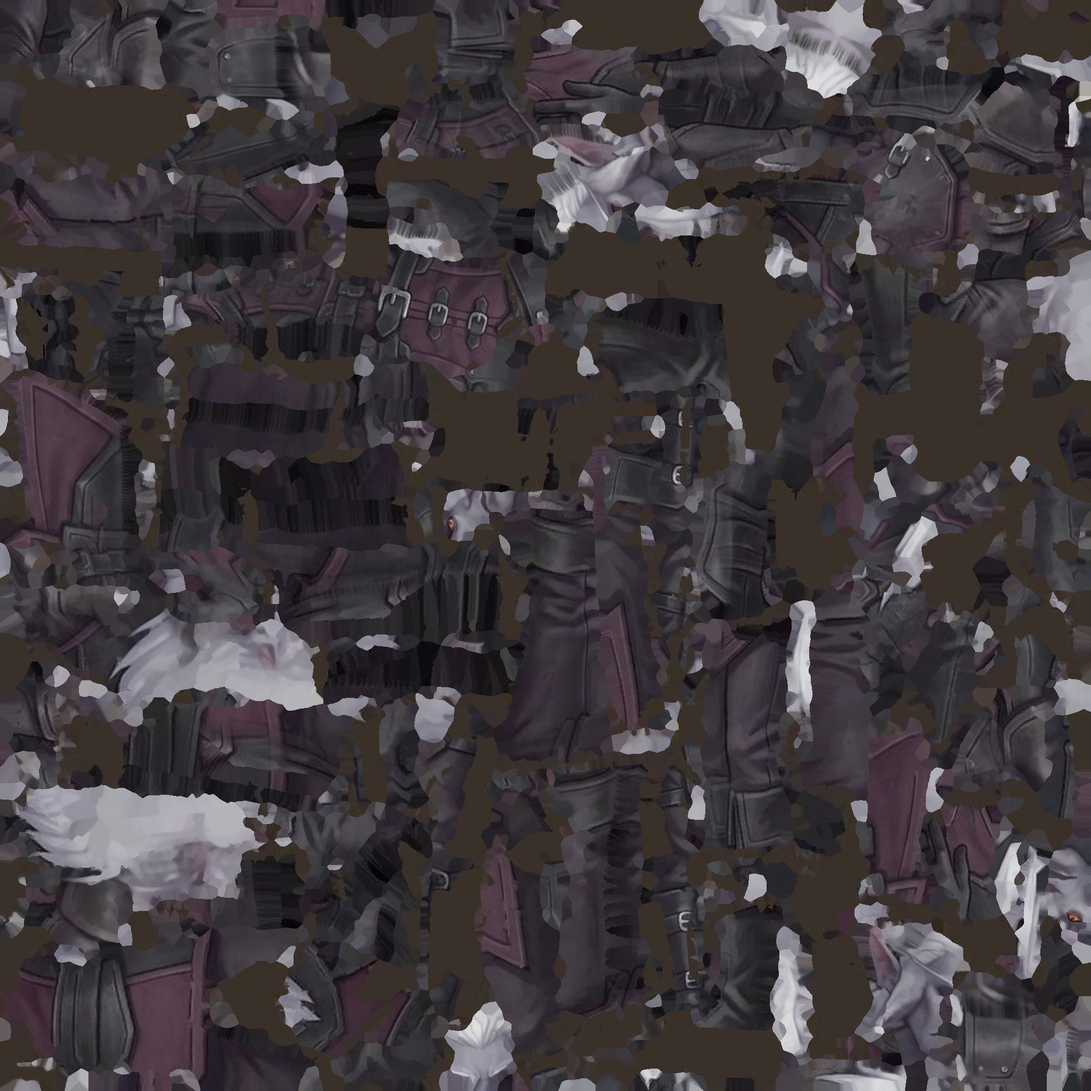
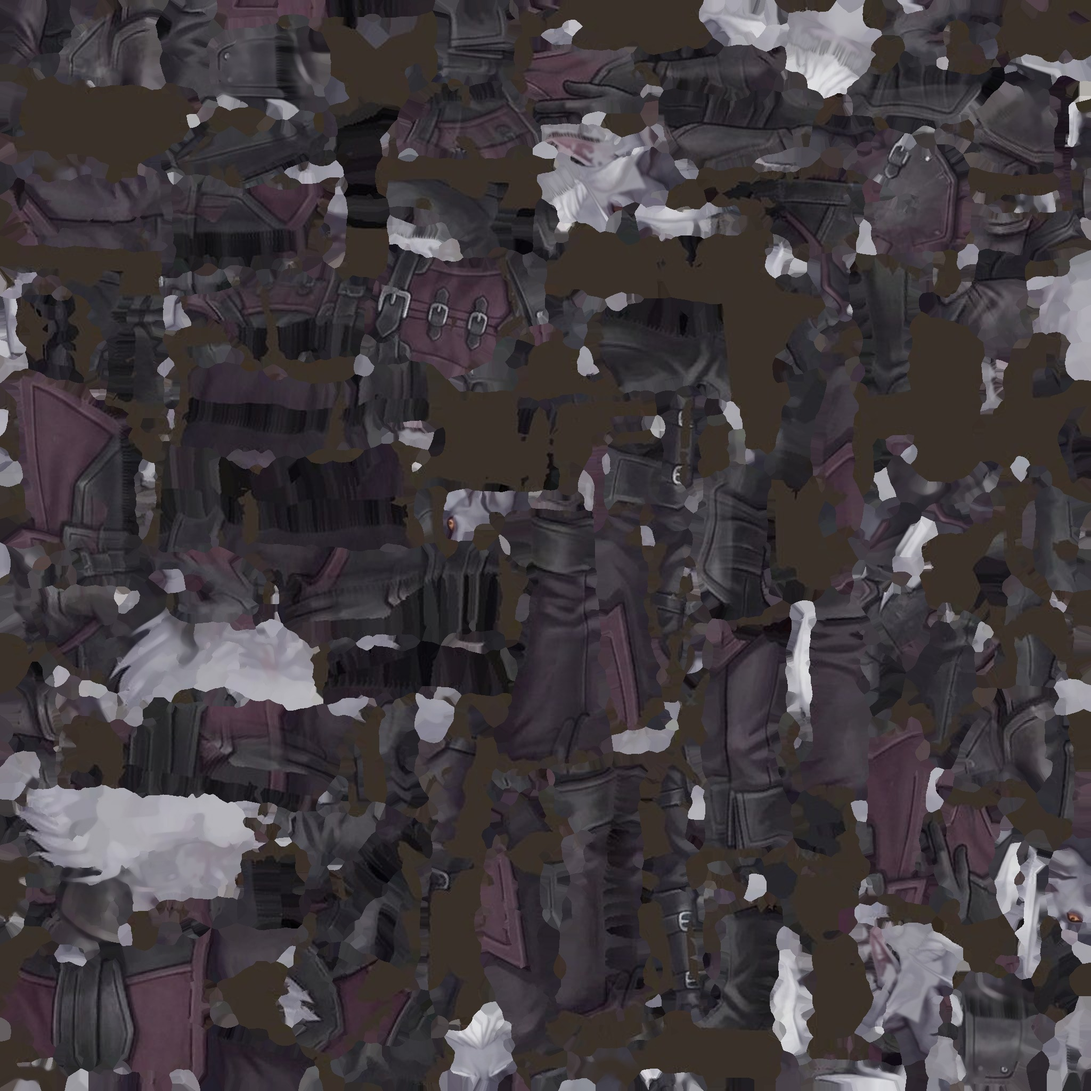
Ajustes finos: cabelo lateral dos rostos, guarda do anão, arqueiro no vídeo, comparação no Unity
Regressão: 0 falhas. afinar_manga.py fica como ferramenta experimental (não aplicada).

Claude-Session: https://claude.ai/code/session_013wKLGHvYun6wq6jVkxa3n2

diff --git a/prototipo-unity/Valtheria/Scripts/PrototipoValtheria.cs b/prototipo-unity/Valtheria/Scripts/PrototipoValtheria.cs
@@ -673,8 +673,74 @@ public class PrototipoValtheria : MonoBehaviour
         }
         else if (pegadaFase == cams.Length) { pegadaFase++; Invoke(nameof(Sair), 1.5f); }
     }
+    // foto das raças (26/11): Valtheria.exe -racas C:/caminho/racas (grava _frente.png, _perto.png e _lado.png)
+    // os 12 corpos do Godot (mesmo esqueleto, mesmas texturas), parados em fila, na mesma ordem da foto do Godot
+    static readonly string[] RACAS = { "humano_m", "humano_f", "elfo_m", "elfo_f", "sombrio_m", "sombrio_f", "orc_m", "orc_f", "anao_m", "anao_f", "gigante_m", "gigante_f" };
+    static readonly float[] ALTURAS = { 1.8f, 1.68f, 1.85f, 1.75f, 1.82f, 1.72f, 2.0f, 1.87f, 1.36f, 1.3f, 2.6f, 2.45f };
+    string racasSaida;
+    float racasT;
+    int racasFase;
+    readonly List<Animador> racasAnim = new List<Animador>();
+    void RacasAuto(float dt)
+    {
+        if (racasSaida == null)
+        {
+            var args = System.Environment.GetCommandLineArgs();
+            racasSaida = "";
+            for (int i = 0; i < args.Length - 1; i++) if (args[i] == "-racas") racasSaida = args[i + 1];
+            if (racasSaida == "") return;
+            foreach (var l in lobos) { l.anim.Destruir(); Destroy(l.go); }
+            lobos.Clear();
+            jogador.transform.position = new Vector3(60, 0, 60);
+            // palco limpo, como no estúdio do Godot: some com a natureza e o jogador; chão cinza liso
+            foreach (var go in UnityEngine.SceneManagement.SceneManager.GetActiveScene().GetRootGameObjects())
+                if (go != gameObject && go.GetComponentInChildren<Light>() == null && go.GetComponentInChildren<Camera>() == null && go.GetComponentInChildren<Canvas>() == null) go.SetActive(false);
+            jogador.SetActive(false);
+            var chaoR = GameObject.CreatePrimitive(PrimitiveType.Plane);
+            chaoR.transform.localScale = new Vector3(4, 1, 4);
+            if (lit == null) lit = Shader.Find("Universal Render Pipeline/Lit");
+            chaoR.GetComponent<Renderer>().sharedMaterial = new Material(lit) { color = new Color(0.24f, 0.26f, 0.28f) };
+            for (int i = 0; i < RACAS.Length; i++)
+            {
+                var pref = Resources.Load<GameObject>("Valtheria/Racas/" + RACAS[i]);
+                if (pref == null) { Debug.LogWarning("sem raça " + RACAS[i]); continue; }
+                var g = Instantiate(pref, new Vector3((i - (RACAS.Length - 1) * 0.5f) * 1.25f, 0, 0), Quaternion.Euler(0, 180f - 20f, 0));
+                if (lit == null) lit = Shader.Find("Universal Render Pipeline/Lit");
+                var m = new Material(lit) { name = RACAS[i], enableInstancing = true };
+                var t = Resources.Load<Texture2D>("Valtheria/Racas/Texturas/" + RACAS[i] + "_cor");
+                if (t != null) m.SetTexture("_BaseMap", t);
+                m.SetFloat("_Smoothness", 0.25f);
+                foreach (var r in g.GetComponentsInChildren<Renderer>())
+                {
+                    var arr = r.sharedMaterials;
+                    for (int k = 0; k < arr.Length; k++) arr[k] = m;
+                    if (arr.Length == 0) arr = new[] { m };
+                    r.sharedMaterials = arr;
+                    r.shadowCastingMode = ShadowCastingMode.On;
+                }
+                Ajustar(g, ALTURAS[i]);
+                var a = new Animador(g, Resources.LoadAll<AnimationClip>("Valtheria/Racas/" + RACAS[i]));
+                a.Tocar("Idle");
+                racasAnim.Add(a);
+            }
+        }
+        if (racasSaida == "") return;
+        foreach (var a in racasAnim) a.Atualizar(dt);
+        racasT += dt;
+        var cams = new (Vector3 p, Vector3 o, string n)[] {
+            (new Vector3(0, 1.4f, -17.5f), new Vector3(0, 1.1f, 0), "_frente"),
+            (new Vector3(-4.4f, 1.7f, -2.2f), new Vector3(-4.4f, 1.62f, 0), "_perto"),
+            (new Vector3(1.25f, 1.9f, -3.0f), new Vector3(1.25f, 1.7f, 0), "_perto2") };
+        if (racasFase < cams.Length)
+        {
+            cam.position = cams[racasFase].p;
+            cam.rotation = Quaternion.LookRotation(cams[racasFase].o - cam.position);
+            if (racasT > 6f) { ScreenCapture.CaptureScreenshot(racasSaida + cams[racasFase].n + ".png"); racasFase++; racasT = 5.4f; }
+        }
+        else if (racasFase == cams.Length) { racasFase++; Invoke(nameof(Sair), 1.5f); }
+    }
     void Sair() { Application.Quit(); }
-    void LateUpdate() { FotoAuto(Time.deltaTime); PegadaAuto(Time.deltaTime); }
+    void LateUpdate() { FotoAuto(Time.deltaTime); PegadaAuto(Time.deltaTime); RacasAuto(Time.deltaTime); }
 
     void MedirAuto(float dt)
     {

diff --git a/cliente-godot/ferramentas/racas/afinar_manga.py b/cliente-godot/ferramentas/racas/afinar_manga.py
@@ -1,0 +1,81 @@
+#!/usr/bin/env python3
+"""Afina a manga larga no braço (pedido de Robson 26/11: o ombro inchava ao puxar o arco).
+
+Aproxima do eixo do osso os vértices do braço (upperarm) e do ombro (clavicle), na proporção do peso desses
+ossos: a manga fica mais justa, sem mexer em ossos, pesos ou animações.
+Uso: python3 afinar_manga.py entrada.glb saida.glb [--fator 0.82]
+"""
+import json, struct, sys
+import numpy as np
+
+COMP = {5126: 'f4', 5123: 'u2', 5121: 'u1', 5125: 'u4'}
+NC = {'SCALAR': 1, 'VEC2': 2, 'VEC3': 3, 'VEC4': 4, 'MAT4': 16}
+
+
+def main(src, dst, fator=0.82):
+    raw = bytearray(open(src, 'rb').read())
+    n = struct.unpack('<I', raw[12:16])[0]
+    js = json.loads(raw[20:20 + n])
+    b0 = 20 + n + 8
+
+    def info(i):
+        a = js['accessors'][i]
+        bv = js['bufferViews'][a['bufferView']]
+        return b0 + bv.get('byteOffset', 0) + a.get('byteOffset', 0), bv.get('byteStride', 0), np.dtype(COMP[a['componentType']]), NC[a['type']], a['count']
+
+    def ler(i):
+        o, st, dt, nc, cnt = info(i)
+        st = st or nc * dt.itemsize
+        m = np.frombuffer(bytes(raw), dtype=np.uint8, count=st * cnt, offset=o).reshape(cnt, st)[:, :nc * dt.itemsize].copy()
+        return m.view(dt).reshape(cnt, nc)
+
+    def gravar(i, arr):
+        o, st, dt, nc, cnt = info(i)
+        st = st or nc * dt.itemsize
+        a = np.ascontiguousarray(arr.astype(dt)).view(np.uint8).reshape(cnt, nc * dt.itemsize)
+        for k in range(cnt):
+            raw[o + k * st:o + k * st + nc * dt.itemsize] = a[k].tobytes()
+
+    sk = js['skins'][0]
+    juntas = sk['joints']
+    nomes = [js['nodes'][j]['name'] for j in juntas]
+    ibm = ler(sk['inverseBindMatrices']).reshape(-1, 4, 4).transpose(0, 2, 1)  # glTF é coluna-major
+    pos_osso = np.array([np.linalg.inv(m)[:3, 3] for m in ibm])
+    idx = {nm: i for i, nm in enumerate(nomes)}
+    pr = js['meshes'][0]['primitives'][0]
+    P = ler(pr['attributes']['POSITION']).astype(float)
+    J = ler(pr['attributes']['JOINTS_0']).astype(int)
+    W = ler(pr['attributes']['WEIGHTS_0']).astype(float)
+    novo = P.copy()
+    for lado in ('l', 'r'):
+        a = pos_osso[idx['upperarm_' + lado]]
+        b = pos_osso[idx['lowerarm_' + lado]]
+        alvo = [idx['upperarm_' + lado], idx['clavicle_' + lado]]
+        if 'upperarm_twist_01_' + lado in idx:
+            alvo.append(idx['upperarm_twist_01_' + lado])
+        w = np.zeros(len(P))
+        for k in range(4):
+            w += np.where(np.isin(J[:, k], alvo), W[:, k], 0.0)
+        w = np.clip((w - 0.25) / 0.5, 0, 1)  # só onde o braço/ombro manda; transição suave para peito e cotovelo
+        ab = b - a
+        t = np.clip(((P - a) @ ab) / (ab @ ab), 0.0, 1.0)
+        perto = a + t[:, None] * ab
+        k_ = 1.0 - (1.0 - fator) * w
+        novo = np.where(w[:, None] > 0, perto + (novo - perto) * k_[:, None], novo)
+    gravar(pr['attributes']['POSITION'], novo.astype(np.float32))
+    # limites do acessório de posição
+    acc = js['accessors'][pr['attributes']['POSITION']]
+    acc['min'] = novo.min(0).tolist(); acc['max'] = novo.max(0).tolist()
+    js_b = json.dumps(js, separators=(',', ':')).encode()
+    js_b += b' ' * ((4 - len(js_b) % 4) % 4)
+    if len(js_b) != n:
+        raise SystemExit('json mudou de tamanho; gravar não implementado')
+    raw[20:20 + n] = js_b
+    open(dst, 'wb').write(raw)
+    print(f'{src}: manga afinada ({fator})')
+
+
+if __name__ == '__main__':
+    args = sys.argv[1:]
+    fator = float(args[args.index('--fator') + 1]) if '--fator' in args else 0.82
+    main(args[0], args[1], fator)

diff --git a/cliente-godot/ferramentas/racas/rosto_frontal.py b/cliente-godot/ferramentas/racas/rosto_frontal.py
@@ -49,7 +49,7 @@ base = np.asarray(Image.open(io.BytesIO(bruto)).convert('RGB').resize((tam, tam)
 # região do rosto/cabeça (mesmo critério da assadura) com borda suave para baixo (pescoço)
 y_cab = lo[1] + 0.86 * alt
 PX = T * (tam - 1); PX = PX.copy(); PX[:, 1] = (tam - 1) - PX[:, 1]
-novo = base.copy(); peso = np.zeros((tam, tam), np.float32); ilha = np.zeros((tam, tam), bool)
+novo = base.copy(); peso = np.zeros((tam, tam), np.float32); ilha = np.zeros((tam, tam), bool); altm = np.zeros((tam, tam), np.float32); nzm = np.ones((tam, tam), np.float32)
 fy = V[Fc][:, :, 1].max(1)
 for f in Fc[fy > lo[1] + 0.80 * alt]:
     p = PX[f]
@@ -71,6 +71,8 @@ for f in Fc[fy > lo[1] + 0.80 * alt]:
     w = np.clip((nor[:, 2] + 0.02) / 0.40, 0, 1) * np.clip((pos[:, 1] - (lo[1] + 0.80 * alt)) / (0.06 * alt), 0, 1)
     yy = (gy[k] - 0.5).astype(int); xx = (gx[k] - 0.5).astype(int)
     ilha[yy, xx] = True
+    altm[yy, xx] = (pos[:, 1] - lo[1]) / alt
+    nzm[yy, xx] = nor[:, 2]
     sel = w > peso[yy, xx]
     novo[yy[sel], xx[sel]] = c[sel]; peso[yy[sel], xx[sel]] = w[sel]
 
@@ -90,6 +92,17 @@ k_lado = (ilha & (peso < 0.9))[:, :, None] * (1 - np.clip(peso, 0, 1))[:, :, Non
 base = base * (1 - k_lado) + lisa * k_lado
 w3 = ndimage.gaussian_filter(peso, 1.6)[:, :, None]
 saida = base * (1 - w3) + novo * w3
+# mechas escuras soltas nas laterais do cabelo: a vista de frente esticada de lado e a de lado da assadura
+# desenham listras; acima da orelha, onde a lateral fica bem mais escura que o cabelo visto de frente, puxa
+# para a cor do cabelo (orelhas e pele são mais claras e não entram)
+topo = (nzm > 0.6) & (altm > 0.965) & ilha
+if topo.sum() > 50:
+    H = np.median(saida[topo], axis=0)
+    lado = (ilha & (nzm < 0.5) & (altm > 0.885)).astype(np.float32)
+    lado = ndimage.gaussian_filter(lado, 1.5)
+    escuro = np.clip(((H.mean() - 25) - saida.mean(2)) / 35.0, 0, 1) * lado
+    escuro = ndimage.gaussian_filter(escuro, 1.5)[:, :, None]
+    saida = saida * (1 - 0.85 * escuro) + H[None, None, :] * (0.85 * escuro)
 # costura sem risco escuro: todas as ilhas da malha ganham 6 px de borda com a própria cor (o filtro da textura
 # pegava o fundo escuro entre as ilhas e desenhava linhas finas no rosto)
 todas = np.zeros((tam, tam), bool)

diff --git a/prototipo-unity/Valtheria/Editor/ImportarValtheria.cs b/prototipo-unity/Valtheria/Editor/ImportarValtheria.cs
@@ -16,7 +16,7 @@ public class ImportarValtheria : AssetPostprocessor
         {
             ti.textureType = TextureImporterType.NormalMap;
         }
-        ti.maxTextureSize = 1024;
+        ti.maxTextureSize = assetPath.Contains("/Racas/") ? 2048 : 1024;
         if (assetPath.Contains("Leaves") || assetPath.Contains("Leaf") || assetPath.Contains("Flowers"))
             ti.alphaIsTransparency = true;
     }
